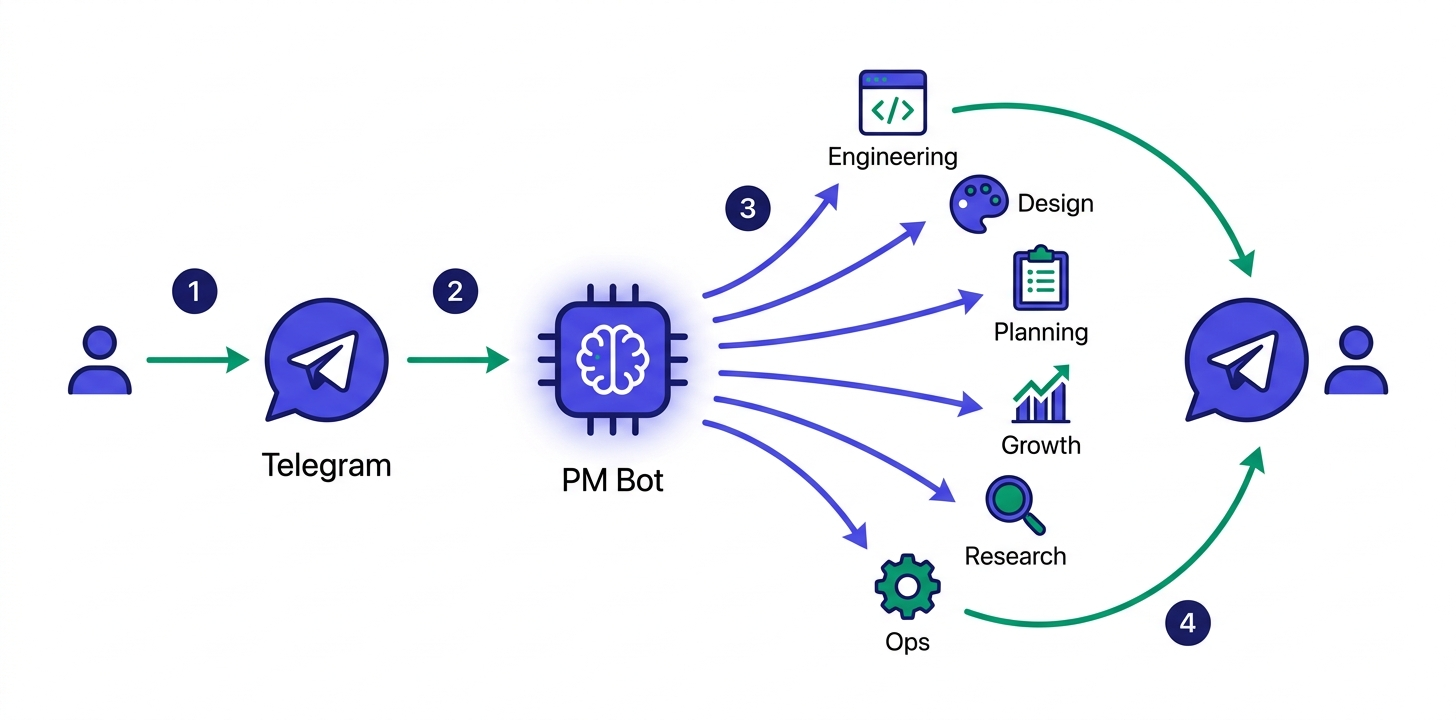
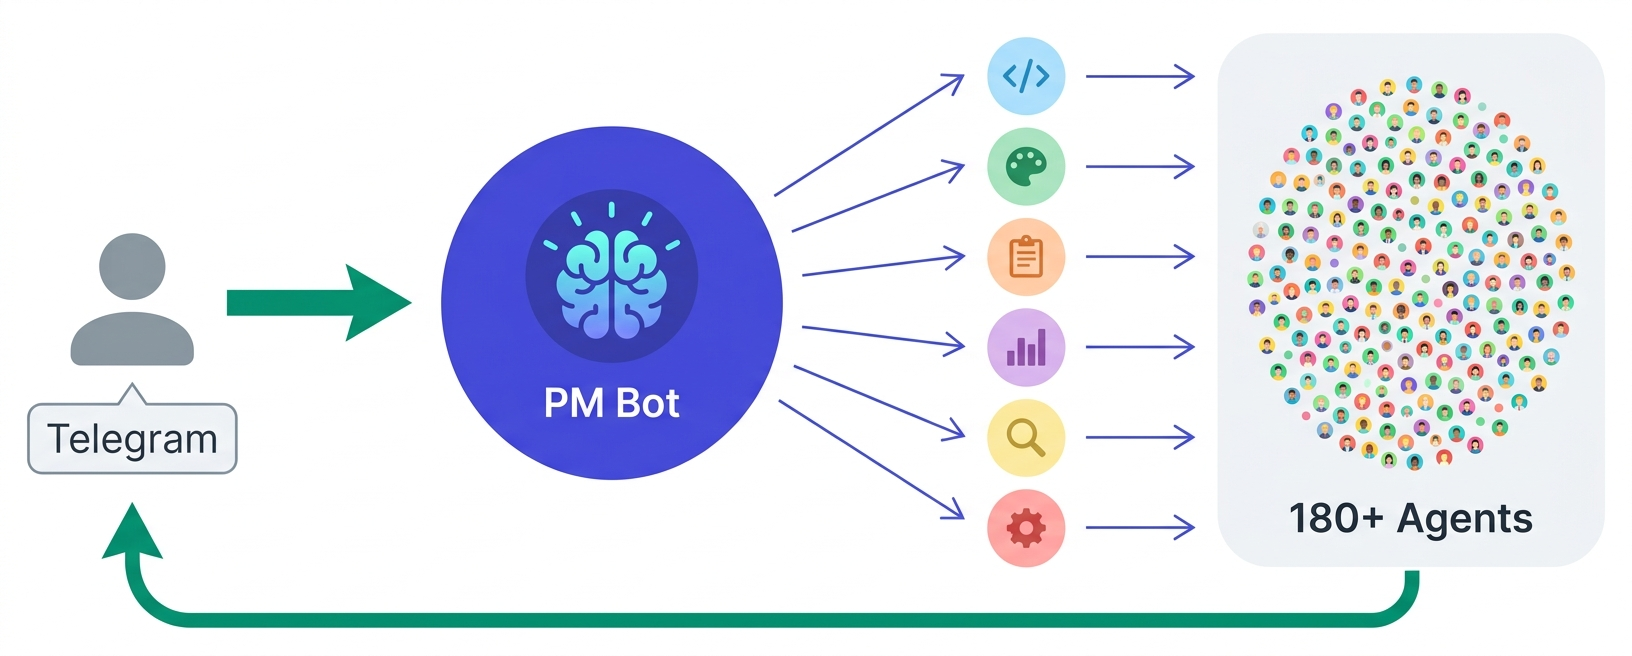
feat(README): 목표 관리 기능 row 추가 + overview 이미지 재생성 + 스크린샷 가이드 제거
- 주요 기능 테이블에 목표 관리 시스템(장기목표/주간회의/일일회고/GoalTracker) row 추가
- aimesh_overview.png 재생성 — 180+ Agent Pool 동적 소싱 플로우 반영
- 불필요한 스크린샷 업로드 가이드 섹션 제거

Changed region(s): [[0.0, 0.061, 0.989, 0.9756], [0.5254, 0.1829, 0.5563, 0.2134]]

diff --git a/README.md b/README.md
@@ -64,6 +64,7 @@
 | 🤝 | **멀티봇 협업** | 개발·디자인·기획·성장·리서치·운영 6개 부서 봇이 유기적으로 협력<br/><img src="assets/diagrams/feat_collab.png" alt="멀티봇 협업 다이어그램" width="220"/> |
 | ⚡ | **3종 AI 엔진 지원** | Claude Code · OpenAI Codex · Gemini CLI — 부서별 최적 엔진 자동 배정<br/><img src="assets/diagrams/feat_engines.png" alt="3종 AI 엔진 다이어그램" width="220"/> |
 | 🔌 | **스킬 플러그인 시스템** | 봇에 능력을 추가하는 스킬을 직접 만들고 붙일 수 있음<br/><img src="assets/diagrams/feat_skills.png" alt="스킬 플러그인 다이어그램" width="220"/> |
+| 🎯 | **목표 관리 시스템** | 장기 목표 설정 → 주간회의 · 일일회고 · GoalTracker로 자동 추적 · 이터레이션<br/><img src="assets/diagrams/feat_goal_tracking.png" alt="목표 관리 사이클 다이어그램" width="220"/> |
 | 📊 | **실시간 대시보드** | 봇 상태·메시지 흐름·응답 이력을 웹 UI로 한눈에 모니터링 |
 | 🧩 | **자유로운 조직 구성** | 부서 봇을 추가/삭제해 나만의 AI 조직 구조를 설계 |
 | 🐳 | **Docker 원클릭 실행** | `docker compose up -d` 한 줄로 전체 시스템 기동 |
@@ -173,21 +174,6 @@ PM 봇이 요청을 받아 적절한 팀에 자동으로 위임합니다.
 <p align="center">
   <img src="assets/screenshots/dashboard_bots.png" alt="봇 상태 모니터링 뷰" width="700"/>
 </p>
-
-> 스크린샷이 보이지 않나요? 아래 가이드를 따라 직접 캡처하세요.
-
-<details>
-<summary>📸 스크린샷 업로드 가이드</summary>
-
-1. 대시보드 실행: `python dashboard.py` → `http://localhost:8080` 접속
-2. 브라우저에서 전체 화면 캡처 (권장 해상도: 1920x1080 이상)
-3. 메인 대시보드 뷰 → `assets/screenshots/dashboard_main.png`로 저장
-4. 봇 상태 뷰 → `assets/screenshots/dashboard_bots.png`로 저장
-5. (선택) 라우팅 흐름 뷰 → `assets/screenshots/dashboard_routing.png`
-6. 파일 크기 권장: 각 500KB~2MB
-7. 저장 후 `git add assets/screenshots/ && git commit`
-
-</details>
 
 **대시보드에서 볼 수 있는 것:**
 
